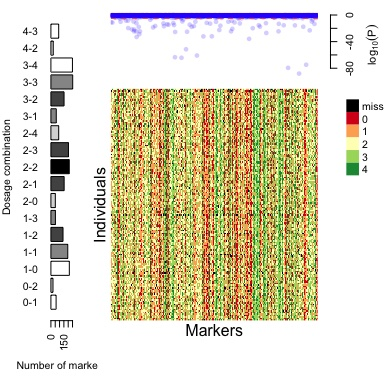
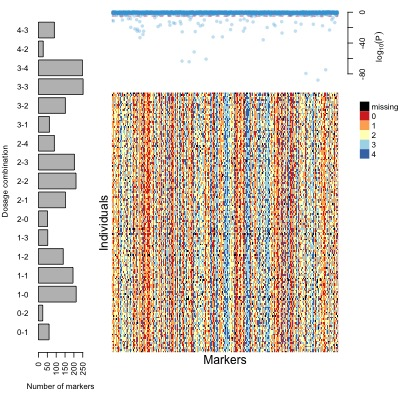
update vignette

diff --git a/cran-comments.md b/cran-comments.md
@@ -1,9 +1,9 @@
 ## Re-submission of MAPpoly package
 
-This is a re-submission of MAPpoly package. This version (0.3.0), contains the following changes
+This is a re-submission of MAPpoly package. This version (0.3.2), contains the following changes
 
   - Added function find_blocks
-  - Added utility functions
+  - Added several utility functions
   - Update function filter_individuals
   - Update filtering graphics
   - Update some color schemes
@@ -15,8 +15,8 @@ This is a re-submission of MAPpoly package. This version (0.3.0), contains the f
 Thank you for reviewing our re-submission!
 
 ## Test environments
-* local R installation (macOS 11.6), R 4.1.2
-* local R installation (Ubuntu 20.04), R 4.1.2
+* local R installation (macOS 11.6), R 4.2.2
+* local R installation (Ubuntu 20.04), R 4.2.2
 * Windows Server x64 (on appveyor), R 4.1.2
 * Win-builder (R Under development - unstable)
 
